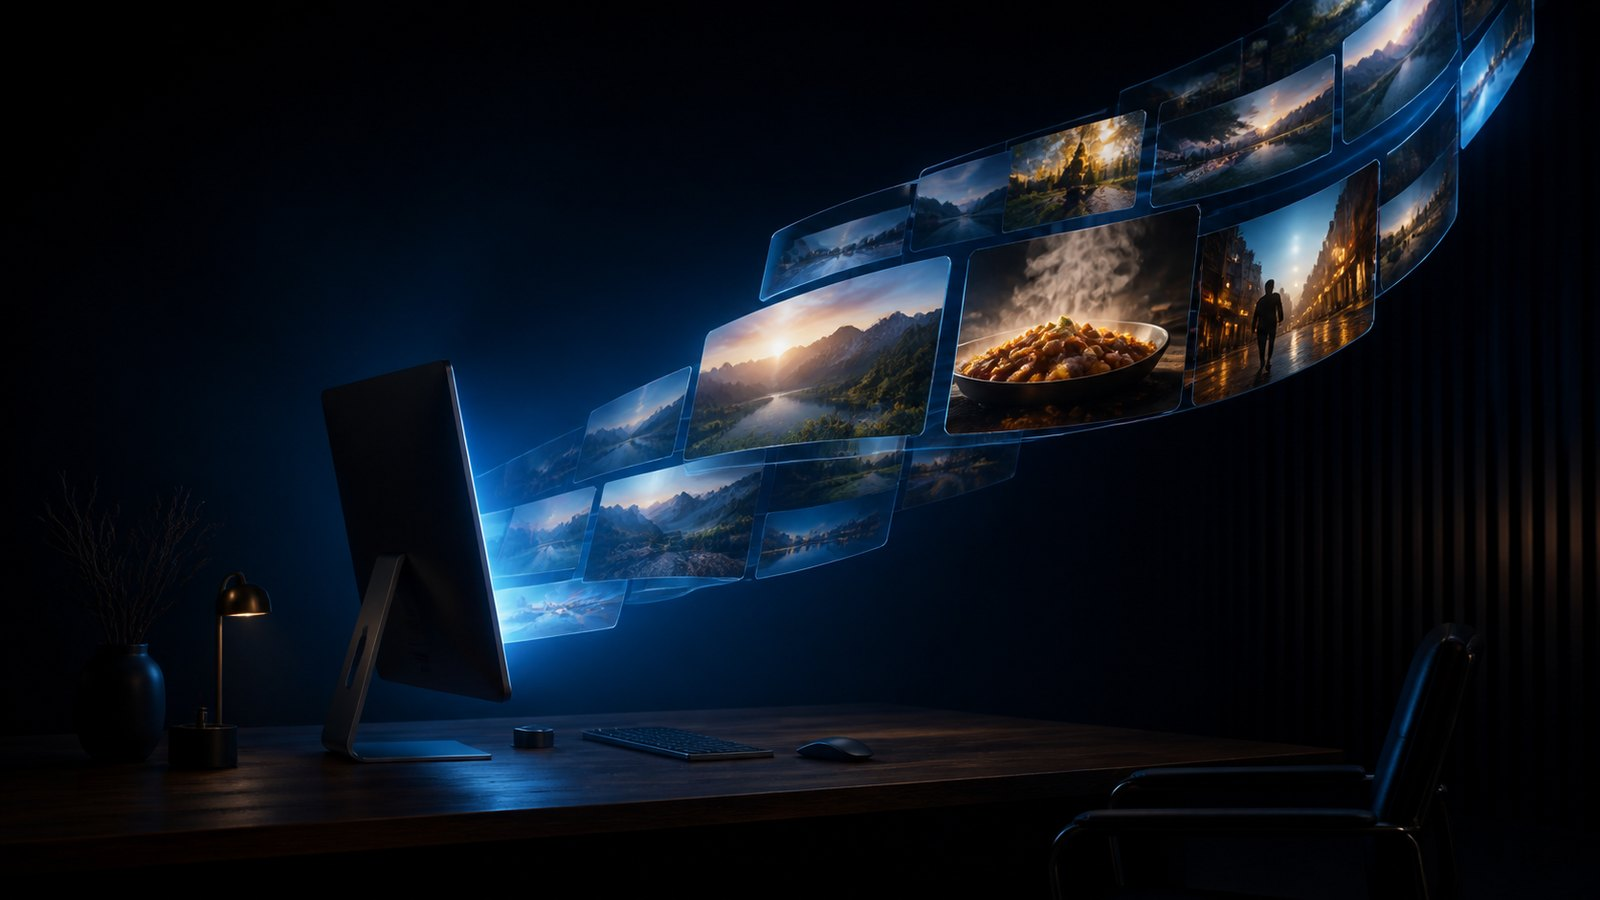
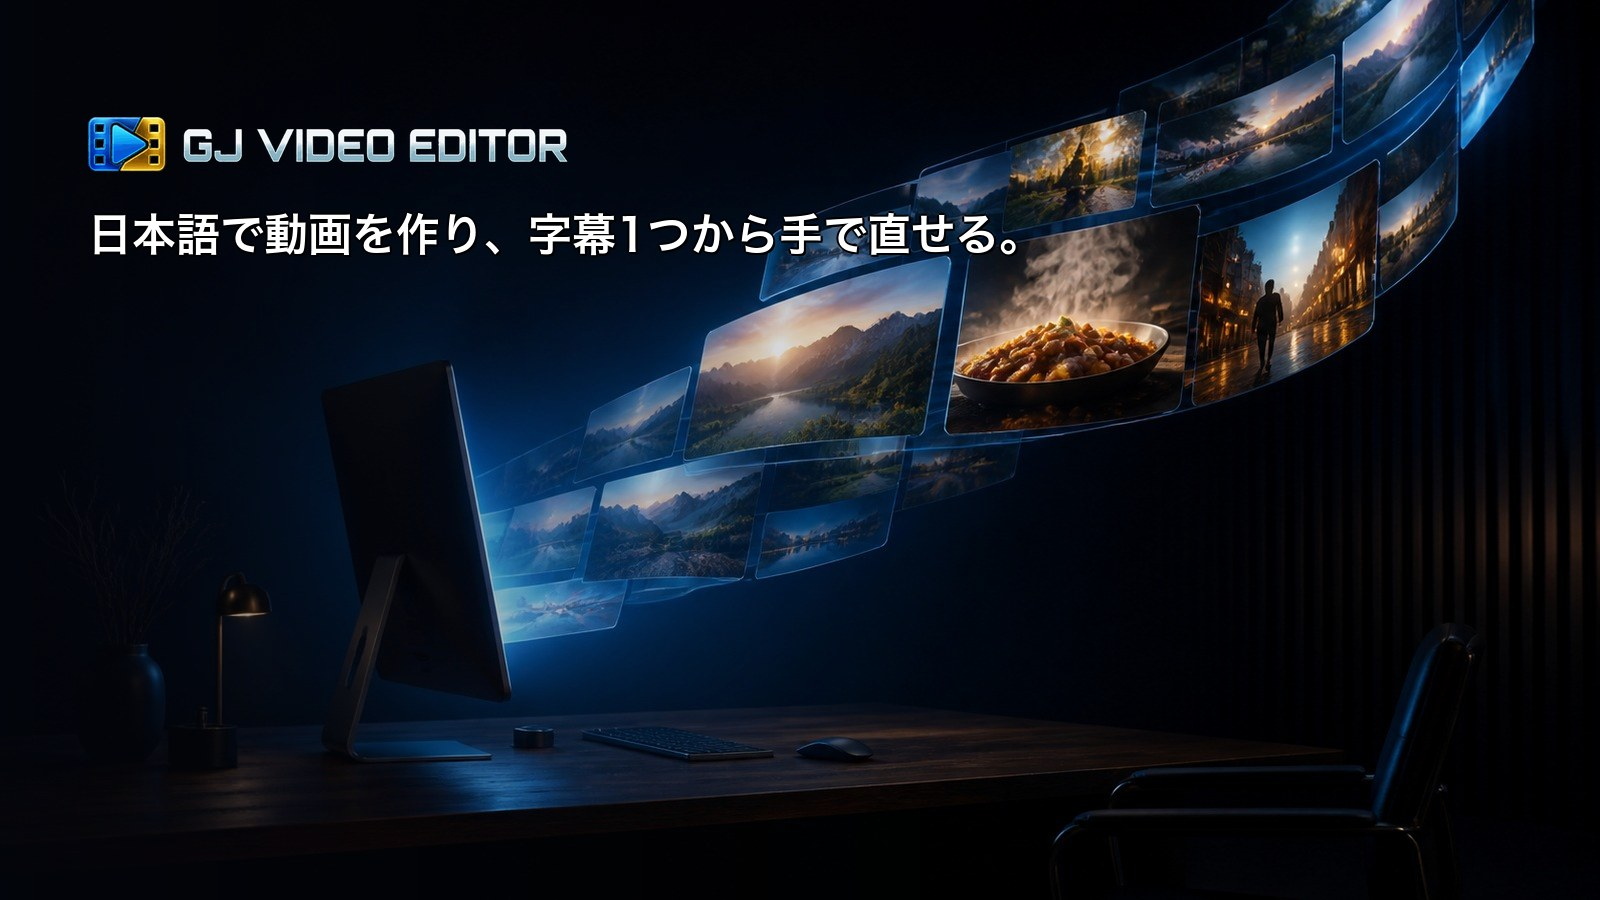
メインビジュアルにツール名とキャッチを入れる

diff --git a/docs/en/index.html b/docs/en/index.html
@@ -7,7 +7,7 @@
 <meta name="description" content="Describe the video you want and an AI assembles it end to end. Keep it as is, or fix the parts that bother you on a timeline — faster than explaining them again. Python standard library + Pillow + ffmpeg. MIT licensed.">
 <meta property="og:title" content="GJ VIDEO EDITOR">
 <meta property="og:description" content="Built by AI, fixable where it matters. No dependencies to speak of. MIT licensed.">
-<meta property="og:image" content="../assets/hero.jpg">
+<meta property="og:image" content="../assets/hero-en.jpg">
 <meta property="og:type" content="website">
 <link rel="icon" type="image/png" href="../assets/favicon.png">
 <link rel="alternate" hreflang="ja" href="https://gridjapan.github.io/gjVideoEditor/jp/">
@@ -139,7 +139,7 @@
       When something needs changing, drag the subtitle yourself or just ask again — whichever is quicker.
     </p>
     <p class="sub">Python standard library + Pillow + ffmpeg. No cloud, no API keys.</p>
-    <img class="shot hero-img" src="../assets/hero.jpg" alt="">
+    <img class="shot hero-img" src="../assets/hero-en.jpg" alt="">
   </div>
 
   <section id="how">

diff --git a/tools/make_hero.py b/tools/make_hero.py
@@ -1,0 +1,91 @@
+#!/usr/bin/env python3
+# -*- coding: utf-8 -*-
+"""紹介ページのメインビジュアルに、ロゴとキャッチを焼き込む。
+
+**文字は画像生成に任せない。** 生成モデルは日本語を化けさせるので、
+素の絵（notes/promo-source/hero_base.jpg）に、既存のロゴPNGと
+システムフォントで後から合成する。差し替えもここを直すだけで済む。
+
+    python3 tools/make_hero.py            # docs/assets/hero.jpg を作り直す
+    python3 tools/make_hero.py --copy "…" # キャッチだけ差し替えて試す
+"""
+import os as _os, sys as _sys
+_sys.path.insert(0, _os.path.dirname(_os.path.abspath(__file__)))
+import _wincompat  # noqa: E402
+import argparse, os, sys
+from PIL import Image, ImageDraw, ImageFont
+
+ROOT = os.path.dirname(os.path.dirname(os.path.abspath(__file__)))
+BASE = os.path.join(ROOT, "notes", "promo-source", "hero_base.jpg")
+LOGO = os.path.join(ROOT, "ui", "assets", "logo_editor.png")
+OUT = os.path.join(ROOT, "docs", "assets", "hero.jpg")
+OUT_EN = os.path.join(ROOT, "docs", "assets", "hero-en.jpg")
+
+# ページの h1 と揃える（別々に持つとズレるので、変えるときは両方直す）
+COPY = "日本語で動画を作り、字幕1つから手で直せる。"
+# 英語版ページ用。日本語の画像を英語ページに出さない
+COPY_EN = "Make a video in plain language. Move one subtitle by hand."
+
+FONTS = [
+    "/System/Library/Fonts/ヒラギノ角ゴシック W6.ttc",
+    "/System/Library/Fonts/ヒラギノ角ゴシック W5.ttc",
+    "C:/Windows/Fonts/YuGothB.ttc", "C:/Windows/Fonts/meiryob.ttc",
+]
+
+
+def font(size):
+    for p in FONTS:
+        if os.path.exists(p):
+            try:
+                return ImageFont.truetype(p, size)
+            except OSError:
+                continue
+    return ImageFont.load_default()
+
+
+def main(copy_text, out=OUT, en=False):
+    if not os.path.exists(BASE):
+        print(f"❌ 元絵がありません: {BASE}", file=sys.stderr); sys.exit(1)
+    im = Image.open(BASE).convert("RGB")
+    W, H = im.size
+
+    # 置き場所は左上（実測でいちばん暗く・柄が少ない。輝度6.5／ばらつき13.6）
+    x, y = int(W * 0.055), int(H * 0.13)
+
+    # 文字の右端が明るいコマに掛かるので、左から右へ薄れる暗幕を敷く。
+    # 影だけだと明るい絵の上で潰れる（実測でコントラスト比が3を切った）
+    scrim = Image.new("L", (W, H), 0)
+    sd = ImageDraw.Draw(scrim)
+    x1 = int(W * 0.72)
+    for i in range(x1):
+        sd.line([(i, 0), (i, H)], fill=int(150 * (1 - i / x1) ** 1.4))
+    im = Image.composite(Image.new("RGB", (W, H), (4, 8, 18)), im, scrim)
+
+    # ロゴ。暗所に載るので、そのままの白抜きで合う
+    lg = Image.open(LOGO).convert("RGBA")
+    lw = int(W * 0.30)
+    lg = lg.resize((lw, max(1, round(lw * lg.height / lg.width))), Image.LANCZOS)
+    im.paste(lg, (x, y), lg)
+
+    # キャッチ。1行で置き、背景が明るくても読めるよう薄い影を敷く
+    ty = y + lg.height + int(H * 0.045)
+    f = font(int(H * (0.040 if en else 0.049)))
+    d = ImageDraw.Draw(im)
+    for dx, dy in ((0, 2), (2, 0), (0, -2), (-2, 0), (2, 2)):
+        d.text((x + dx, ty + dy), copy_text, font=f, fill=(0, 0, 0))
+    d.text((x, ty), copy_text, font=f, fill=(255, 255, 255))
+
+    im.save(out, "JPEG", quality=88, optimize=True, progressive=True)
+    print(f"✅ {out}  {W}x{H}  {os.path.getsize(out) // 1024}KB")
+    print("   ⚠ 焼き込んだ文字は目で見て確認すること（漏洩スキャンは画像を読めません）")
+
+
+if __name__ == "__main__":
+    ap = argparse.ArgumentParser(description="メインビジュアルにロゴとキャッチを焼き込む")
+    ap.add_argument("--copy", default=None, help="キャッチ（既定はページのh1と同じ）")
+    a = ap.parse_args()
+    if a.copy:
+        main(a.copy)
+    else:
+        main(COPY)
+        main(COPY_EN, OUT_EN, en=True)
